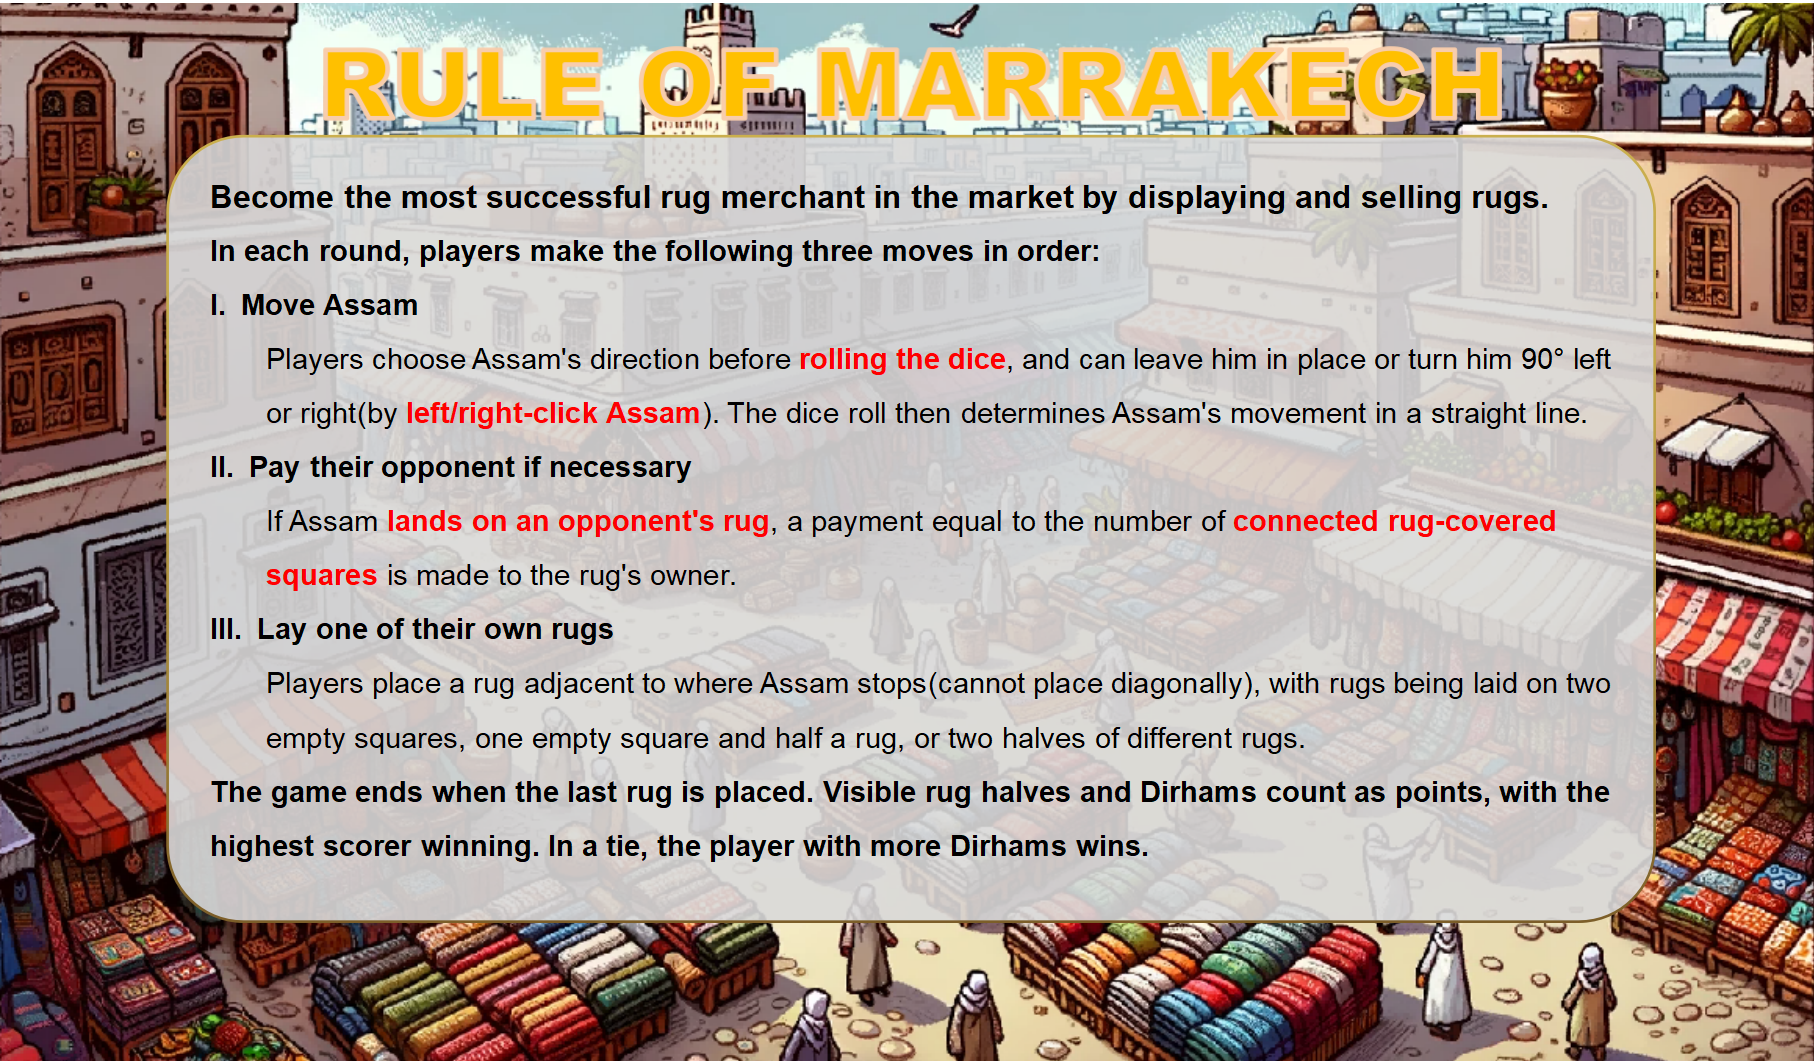
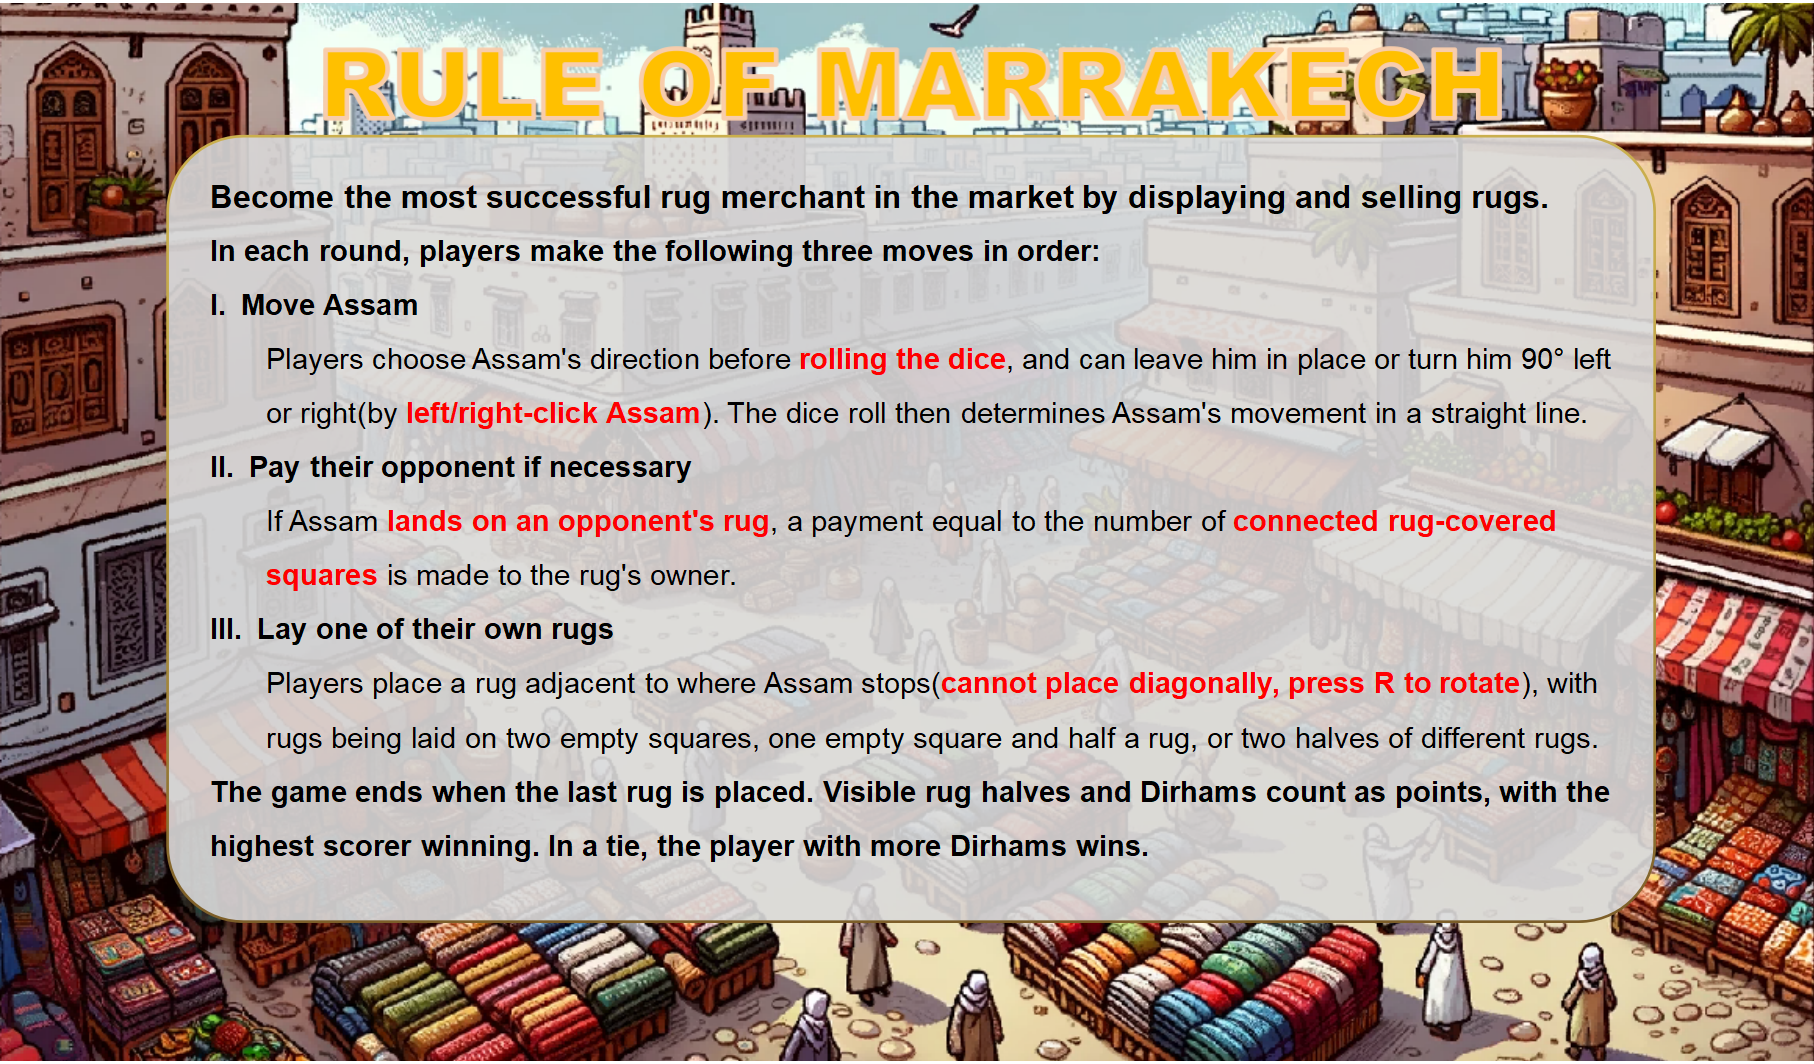
[Xing Chen][File/Coding] Modified the rule picture. Added a class called PromptText, displaying some prompt message in game. Move the sound of rolling dice into IconsAndMusic.

Changed region(s): [[0.1544, 0.6823, 0.8953, 0.7133], [0.2161, 0.6203, 0.8953, 0.6513]]

diff --git a/src/comp1110/ass2/gui/IconsAndMusic.java b/src/comp1110/ass2/gui/IconsAndMusic.java
@@ -5,6 +5,7 @@ import javafx.scene.control.Button;
 import javafx.scene.control.Slider;
 import javafx.scene.image.Image;
 import javafx.scene.image.ImageView;
+import javafx.scene.media.AudioClip;
 import javafx.scene.media.Media;
 import javafx.scene.media.MediaPlayer;
 
@@ -14,7 +15,7 @@ import java.util.HashMap;
 /**
  * Description: Store the icons(mostly buttons) and music of this game
  * Buttons:
- *  start scene, new game, rule, mute, volume slider
+ *  start scene, new game, rule, rule close, mute, volume slider
  * Music:
  *  BGM
  *
@@ -28,13 +29,14 @@ public class IconsAndMusic {
     private final String RULE_BOARD = "file:assets/Images/RuleBoard.png";
     private final String START_SCENE = "file:assets/Images/StartScene.png";
     private final String SOUND_IMAGE = "file:assets/Images/Sound.png";
-    private final String SOUND_MUTED_IMAGE = "file:assets/Images/Mute.png";
+    private final String SOUND_MUTE_IMAGE = "file:assets/Images/Mute.png";
+    private static final String DICE_ROLL = "file:assets/Audio/Dice.mp3";
     // background music
-    private Media bgm1 = new Media(new File(BGM).toURI().toString());
-    private MediaPlayer bgm = new MediaPlayer(bgm1);
+    private Media bgmMusic = new Media(new File(BGM).toURI().toString());
+    private MediaPlayer bgm = new MediaPlayer(bgmMusic);
+    private static AudioClip diceRollSound = new AudioClip(DICE_ROLL);
     // Mute status
     private boolean soundMuted = false;
-    private final RealDice dice;
     // start scene
     private Image startScene = new Image(START_SCENE);
     public final ImageView startSceneImage;
@@ -45,8 +47,10 @@ public class IconsAndMusic {
     // Slider of volume
     public Slider volumeSlider;
     private double volumeRecorder;
-
-
+    // Sound Icon
+    private Image soundIconImage;
+    private Image soundUnmuteIconImage;
+    private ImageView soundIcon;
     /**
      * constructor: initialize everything
      * @param windowWidth game window width
@@ -54,11 +58,9 @@ public class IconsAndMusic {
      * @param game game
      */
     public IconsAndMusic(int windowWidth, int windowHeight, Game game){
-        dice = new RealDice(game);
         // play BGM
         bgm.setCycleCount(MediaPlayer.INDEFINITE); // play infinitely
         bgm.play();
-
         // Start Scene
         startSceneImage = new ImageView(startScene);
         startSceneImage.setFitHeight(windowHeight);
@@ -66,7 +68,7 @@ public class IconsAndMusic {
 
         // Set a volume Slider, to control the bgm and sound effects
         volumeSlider = new Slider(0, 1, 0.5);
-        dice.diceRollSound.volumeProperty().bind(volumeSlider.valueProperty());
+        diceRollSound.volumeProperty().bind(volumeSlider.valueProperty());
         bgm.volumeProperty().bind(volumeSlider.valueProperty());
         volumeRecorder = volumeSlider.getValue();
 
@@ -74,7 +76,7 @@ public class IconsAndMusic {
         buttons.put("newGameButton",new Button("NEW GAME")); // NEW GAME
         buttons.put("ruleButton",new Button("RULE")); // RULE
         buttons.put("closeRuleButton",new Button("BACK")); // BACK FROM RULE
-        buttons.put("muteButton",new Button("MUTE")); // MUTE BUTTON
+        buttons.put("muteButton",new Button()); // MUTE BUTTON
 
         // Set up a new game button on the UI board; press this button to begin or reset a game.
         buttons.get("newGameButton").setLayoutX(windowWidth - 750);
@@ -87,22 +89,29 @@ public class IconsAndMusic {
         buttons.get("ruleButton").setStyle("-fx-font-size: 40px; -fx-font-weight: bold;");
 
         // Set a mute button on the UI board; it is displayed as an icon
+        soundIconImage = new Image(SOUND_IMAGE);
+        soundUnmuteIconImage = new Image(SOUND_MUTE_IMAGE);
+        soundIcon = new ImageView(soundIconImage); // unmute by default
+        soundIcon.setFitWidth(20);
+        soundIcon.setFitHeight(20);
         buttons.get("muteButton").setLayoutX(windowWidth - 100);
         buttons.get("muteButton").setLayoutY(windowHeight - 100);
+        buttons.get("muteButton").setGraphic(soundIcon);
+        buttons.get("muteButton").setStyle("-fx-background-color: transparent; -fx-border-color: transparent; -fx-focus-color: transparent;");
         buttons.get("muteButton").setOnAction(event ->{
             // record the volume before muted and will scroll back to it
             if (!soundMuted) {
                 volumeRecorder = volumeSlider.getValue();
                 volumeSlider.setValue(0.0);
+                soundIcon.setImage(soundUnmuteIconImage);
                 soundMuted = true;}
             else {
                 volumeSlider.setValue(volumeRecorder);
+                soundIcon.setImage(soundIconImage);
                 soundMuted = false;
             }
         });
-    }
 
-    public Group formRuleWindow(int windowWidth, int windowHeight){
         // rule window
         ruleWindow = new Group();
 
@@ -117,11 +126,18 @@ public class IconsAndMusic {
         buttons.get("closeRuleButton").setStyle("-fx-font-size: 40px; -fx-font-weight: bold;");
         buttons.get("closeRuleButton").setMinSize(20,20);
         ruleWindow.getChildren().add(buttons.get("closeRuleButton"));
-        return ruleWindow;
     }
+    public Group formRuleWindow(){return ruleWindow;}
 
+    /**
+     * change the rule and newGame button to make it smaller,
+     * so they can be moved to the right-bottom corner.
+     */
     public void changeIconsFeatures(){
         buttons.get("ruleButton").setStyle("-fx-font-size: 15px; -fx-font-weight: bold;");
         buttons.get("newGameButton").setStyle("-fx-font-size: 15px; -fx-font-weight: bold;");
+    }
+    public static void playDiceSound(){
+        diceRollSound.play();
     }
 }

diff --git a/src/comp1110/ass2/gui/PromptText.java b/src/comp1110/ass2/gui/PromptText.java
@@ -1,0 +1,83 @@
+package comp1110.ass2.gui;
+
+import javafx.scene.Group;
+import javafx.scene.layout.VBox;
+import javafx.scene.text.Text;
+import javafx.scene.text.TextFlow;
+
+/**
+ * Description: Store some prompt texts
+ *
+ * @Author Xing Chen, u7725171
+ * @Create 2023/10/15
+ * Version 1.0
+ */
+public class PromptText extends Group {
+    public Text copyright = new Text("ANU: Xing, Chuang, Diao");
+    private Text welcome = new Text("Welcome to our Marrakech!\n");
+    private Text characterChoosePrompt = new Text("Please choose your opponent type.\n");
+    private Text roundPrompt;
+    private Text roundPrompt2 = new Text("'s round.");
+    private Text rotatePrompt = new Text("Now you can left-click or right-click to rotate Assam.\n");
+    private Text rollPrompt = new Text("When finish rotating, click on the \"Dice\" to roll.\n");
+    private Text movePrompt1 = new Text("Assam will move ");
+    private Text movePrompt2 = new Text(" steps.");
+    private Text movePrompt3 = new Text(" step.");
+    private Text paymentPrompt1 = new Text("Oops, you have to pay ");
+    private Text paymentPrompt2 = new Text(" dirhams.");
+    private Text paymentPrompt3 = new Text(" dirham.");
+    private Text paymentPrompt4 = new Text("Lucky you! You don't need to pay anyone.\n");
+    private Text gameOverPrompt1 = new Text("Game over!\n");
+    private Text gameOverPrompt2 = new Text("Winner is ");
+    private Text gameOverPrompt3 = new Text("Tie game!");
+//    public Text copyright = new Text("ANU: Xing, Chuang, Diao");
+//    private String welcome = new String("Welcome to Marrakech!\n");
+//    private String characterChoosePrompt = new String("Please choose your opponent type.\n");
+//    private String roundPrompt;
+//    private String roundPrompt2 = new String("'s round.");
+//    private String rotatePrompt = new String("Now you can left-click or right-click to rotate Assam.\n");
+//    private String rollPrompt = new String("When finish rotating, click on the \"Dice\" to roll.\n");
+//    private String movePrompt1 = new String("Assam will move");
+//    private String movePrompt2 = new String(" steps.");
+//    private String movePrompt3 = new String(" step.");
+//    private String paymentPrompt1 = new String("Oops, you have to pay");
+//    private String paymentPrompt2 = new String(" dirhams.");
+//    private String paymentPrompt3 = new String(" dirham.");
+//    private String paymentPrompt4 = new String("Lucky you! You don't need to pay anyone.");
+//    private String gameOverPrompt1 = new String("Game over!\n");
+//    private String gameOverPrompt2 = new String("Winner is ");
+//    private String gameOverPrompt3 = new String("Tie game!");
+    private TextFlow promptText = new TextFlow();
+    public VBox textVBox;
+
+    public PromptText(Game game){
+        roundPrompt = new Text("Now is player " + game.getCurrentPlayer().getColor().toString() + "'s turn.\n");
+        this.promptText.getChildren().addAll(welcome, characterChoosePrompt, roundPrompt, rotatePrompt, rollPrompt);
+        this.promptText.setLineSpacing(10);
+        this.promptText.setStyle("-fx-font-size: 15px;");
+        this.getChildren().add(promptText);
+    }
+
+    public void enterMovingStage(int step){
+        this.promptText.getChildren().clear();
+        if (step == 1)
+            this.promptText.getChildren().addAll(movePrompt1,new Text(String.valueOf(step)),movePrompt3);
+        else
+            this.promptText.getChildren().addAll(movePrompt1,new Text(String.valueOf(step)),movePrompt2);
+    }
+    public void enterPaymentStage(String paymentString){
+        this.promptText.getChildren().clear();
+        // null means no need to pay
+        if (paymentString == null){
+            this.promptText.getChildren().addAll(paymentPrompt4);
+            return;
+        }
+        int amount = Integer.parseInt(paymentString.substring(0,2));
+        String player = "player " + paymentString.substring(2) + " ";
+        if (amount == 1)
+            this.promptText.getChildren().addAll(paymentPrompt1, new Text(player), new Text(String.valueOf(amount)), paymentPrompt3);
+        else
+            this.promptText.getChildren().addAll(paymentPrompt1, new Text(player), new Text(String.valueOf(amount)), paymentPrompt2);
+    }
+
+}

diff --git a/src/comp1110/ass2/gui/Game.java b/src/comp1110/ass2/gui/Game.java
@@ -4,6 +4,7 @@ import comp1110.ass2.*;
 import javafx.animation.KeyFrame;
 import javafx.animation.Timeline;
 import javafx.application.Application;
+import javafx.geometry.Pos;
 import javafx.scene.Group;
 import javafx.scene.Scene;
 import javafx.scene.layout.HBox;
@@ -49,7 +50,8 @@ public class Game extends Application {
     private final ArrayList<RealRug> RealRugs = new ArrayList<>();
     private IconsAndMusic iconsAndMusic = new IconsAndMusic(WINDOW_WIDTH, WINDOW_HEIGHT, this);
     // HBox for game buttons and volume bar when the game is on
-    public HBox hBox = new HBox();
+    private HBox hBox = new HBox();
+    private PromptText textVBox;
 
     /**
      * initialization of game, firstly, game will enter a starting scene
@@ -73,6 +75,7 @@ public class Game extends Application {
         hBox.getChildren().add(iconsAndMusic.volumeSlider);
         hBox.setLayoutX(WINDOW_WIDTH-200);
         hBox.setLayoutY(WINDOW_HEIGHT-50);
+        hBox.setAlignment(Pos.CENTER);
         this.root.getChildren().add(hBox);
         this.stage.setScene(scene);
         this.stage.show();
@@ -98,6 +101,12 @@ public class Game extends Application {
             players.add(board.getPlayers().get(colorChar));
         }
         realBoard.setScoreBoard(board.getPlayers());
+
+        //display prompt text
+        textVBox = new PromptText(this);
+        textVBox.setLayoutX(WINDOW_WIDTH - 375);
+        textVBox.setLayoutY(WINDOW_HEIGHT - 400);
+        root.getChildren().add(textVBox);
 
         // Start the game with player 0
         currPlayerIndex = 0;
@@ -125,7 +134,7 @@ public class Game extends Application {
     public void showRule(){
         iconsAndMusic.buttons.get("closeRuleButton").setOnAction(event -> this.root.getChildren().remove(iconsAndMusic.ruleWindow));
         // display ruleWindow
-        this.root.getChildren().add(iconsAndMusic.formRuleWindow(WINDOW_WIDTH, WINDOW_HEIGHT));
+        this.root.getChildren().add(iconsAndMusic.formRuleWindow());
     }
 
     /**
@@ -220,6 +229,7 @@ public class Game extends Application {
     public void receiveDicePoint(int point) {
         // Step 2. Move the assam according to the number of dice
         moveAssam(point);
+        textVBox.enterMovingStage(point);
     }
 
     /**
@@ -245,7 +255,7 @@ public class Game extends Application {
             assamStepCount = 0;
 
             // Payment between players， Update scoreboard
-            board.payment(players.get(currPlayerIndex));
+            textVBox.enterPaymentStage(board.payment(players.get(currPlayerIndex)));
             realBoard.setScoreBoard(board.getPlayers());
 
             // Step 3. Enable dragging of rug icon and wait for the currently active player to place a rug.

diff --git a/src/comp1110/ass2/gui/RealDice.java b/src/comp1110/ass2/gui/RealDice.java
@@ -28,8 +28,7 @@ public class RealDice extends StackPane {
     private ImageView diceImage;
     private ArrayList<ImageView> diceImages = new ArrayList<>();
     private final double DICEWIDTH = 100;
-    private final String DICE_ROLL = "file:assets/Audio/Dice.mp3";
-    public AudioClip diceRollSound;
+
 
     /**
      * initialization
@@ -37,13 +36,12 @@ public class RealDice extends StackPane {
      * @param game handle for callback
      */
     RealDice(Game game) {
-        diceRollSound = new AudioClip(DICE_ROLL);
         this.game = game;
         setLayoutX(game.getRealBoard().GROUND_SIZE + 60);
         setLayoutY(game.getRealBoard().GROUND_SIZE - 130);
         this.button.setMinHeight(80);
         this.button.setMinWidth(80);
-        this.button.setStyle("-fx-font-size:30");
+        this.button.setStyle("-fx-font-size:30; -fx-font-weight: bold;");
         this.button.setOnAction(event -> rollDice());
         this.getChildren().add(button);
     }
@@ -53,7 +51,7 @@ public class RealDice extends StackPane {
      */
     private void rollDice() {
         setDisable(true);
-        diceRollSound.play();
+        IconsAndMusic.playDiceSound();
 
         // Animated effects
         Timeline timeline = new Timeline(new KeyFrame(Duration.seconds(0.1), event -> {

diff --git a/src/comp1110/ass2/Board.java b/src/comp1110/ass2/Board.java
@@ -184,17 +184,19 @@ public class Board {
      * When current player lands on a rug owned by another player, payment is made to them
      *
      * @param currentPlayer current player
+     * @return a String contains amount of payment and the player should be paid to
      */
-    public void payment(Player currentPlayer) {
+    public String payment(Player currentPlayer) {
         Coordinate position = assam.getPosition();
         Player player = boardMatrix[position.x][position.y].getPlayer();
         // The position is not owned by other players and no payment is required.
         if (player == null || !player.isInGame() || player.equals(currentPlayer)) {
-            return;
+            return null;
         }
 
         int amount = getPaymentAmount();
         currentPlayer.payTo(player, amount);
+        return String.format("%02d", amount) + player.getColor().toString();
     }
 
     /**
